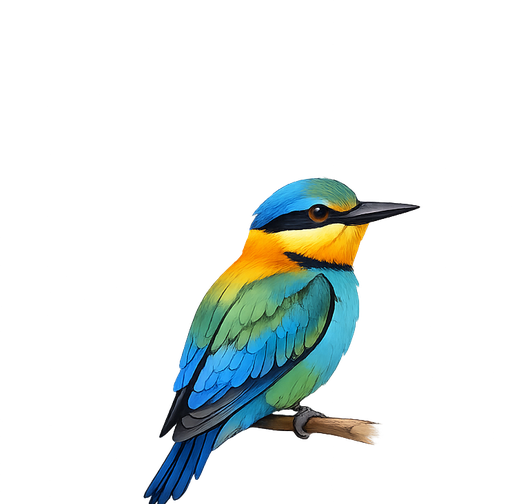
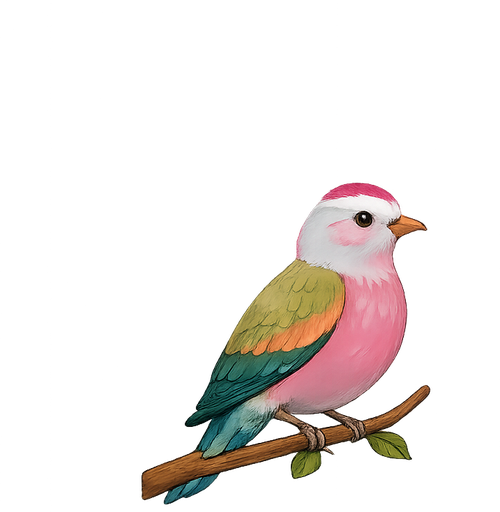
Add bird artwork for all 12 themes
Use the newly supplied rainbow-bee-eater.png and eastern-yellow-robin.png, and
map every mockup file to its theme by filename (artwork doesn't always match the
species name — used as-is per request). cassowary and yellow_robin now have art,
so all 12 bird themes show an illustration.

Tests pass; flutter analyze clean.

Claude-Session: https://claude.ai/code/session_0145qg5rLLJJwwSvomujBMH6

Changed region(s): [[0.27, 0.3274, 0.87, 1.0]]

diff --git a/lib/themes/bird_art.dart b/lib/themes/bird_art.dart
@@ -1,14 +1,11 @@
 /// Maps a bird theme id to its illustration asset, when one exists.
 ///
-/// Only ids listed in [_withArt] have artwork bundled under `assets/birds/`.
-/// To add a bird: drop `assets/birds/<id>.png` in (transparent PNG) and add
-/// `<id>` here.
+/// Every bird theme now has artwork under `assets/birds/<id>.png`. To add or
+/// change one: drop a transparent PNG named `<id>.png` in and (if new) add the
+/// id to [_withArt].
 library;
 
 /// Theme ids that have an illustration in `assets/birds/`.
-///
-/// Missing (no artwork supplied yet): `cassowary` and `yellow_robin` — these
-/// fall back to colour swatches / default icons.
 const _withArt = <String>{
   'bee_eater',
   'spotted_pardalote',
@@ -18,12 +15,14 @@ const _withArt = <String>{
   'oriole',
   'princess_parrot',
   'superb_fairy_wren',
+  'cassowary',
+  'yellow_robin',
   'galah',
   'blue_winged_kookaburra',
 };
 
 /// The asset path for a theme's bird illustration, or null when none exists
-/// (e.g. the Material You / "dynamic" theme, or birds without artwork yet).
+/// (e.g. the Material You / "dynamic" theme).
 String? birdAssetForTheme(String themeId) =>
     _withArt.contains(themeId) ? 'assets/birds/$themeId.png' : null;
 

diff --git a/assets/birds/README.md b/assets/birds/README.md
@@ -7,14 +7,12 @@ Files are **transparent PNGs** named after the theme id (see
 `lib/themes/bird_themes.dart`), trimmed and downsized to ~512 px.
 
 ## Currently included
-`bee_eater, spotted_pardalote, plains_wanderer, rose_crowned_fruit_dove,
-eastern_rosella, oriole, princess_parrot, superb_fairy_wren, galah,
-blue_winged_kookaburra`
+All 12 bird themes have artwork: `bee_eater, spotted_pardalote, plains_wanderer,
+rose_crowned_fruit_dove, eastern_rosella, oriole, princess_parrot,
+superb_fairy_wren, cassowary, yellow_robin, galah, blue_winged_kookaburra`.
 
-## Missing (fall back to colour swatches)
-- `cassowary` — Cassowary (the supplied "Southern-Cassowary.png" was actually a
-  bee-eater, now used for `bee_eater`)
-- `yellow_robin` — Eastern Yellow Robin
+(Note: some supplied illustrations don't strictly match the species name — they
+are mapped by filename to theme id, as requested.)
 
 Drop `assets/birds/bee_eater.png` / `yellow_robin.png` (transparent PNG) in and
 add the id to the `_withArt` set in `lib/themes/bird_art.dart`.